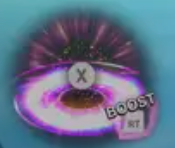
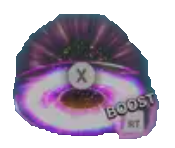
BETAv2
Going solid

diff --git a/Content.js b/Content.js
@@ -1,6 +1,6 @@
 const qteTime = 5000;
 
-const bubl = chrome.runtime.getURL("Imgs/bubble.jpeg");
+const bubl = chrome.runtime.getURL("Imgs/bubble.png");
 const cabba = chrome.runtime.getURL("Imgs/Cabb.jpg");
 const gogeta = chrome.runtime.getURL("Imgs/saveme.jpg");
 const targetImg = chrome.runtime.getURL("Imgs/target.png");
@@ -35,7 +35,7 @@ function randomInterval() {
     const randInt = Math.floor(Math.random() * (maxInt - minInt + 1)) + minInt;
     console.log('Next qte...');
     qteTimeout = setTimeout(() => {
-        if (document.visibilityState === "visible" || qteActive) {
+        if (document.visibilityState === "visible") {
             if (sessionStorage.getItem("helpGogeta") === "yes") {
                 console.log('Cabba arrives');
                 qte();
